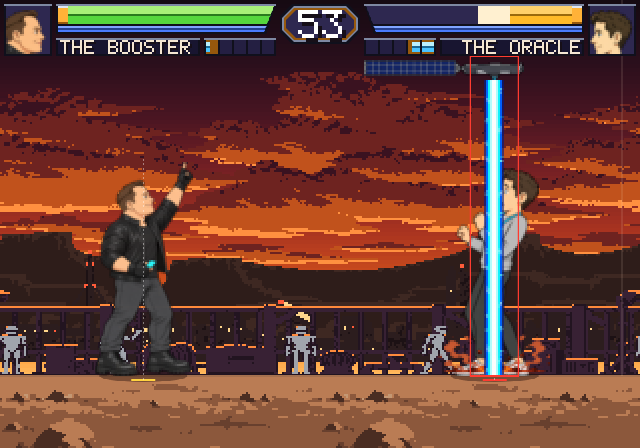
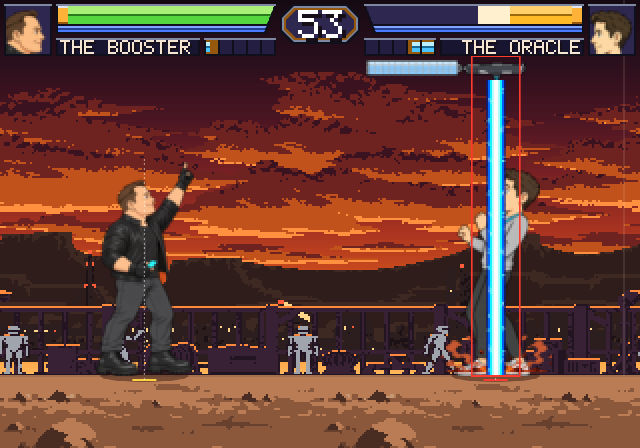
feat(arcade): lighten the laser satellite's solar array
Owner request. The navy array sat at 1.30:1 median contrast against the
darkest crimson rows under the HUD, where the satellite parks. It is now
a recolour edit of the same satellite (pale sky-blue cells, light top
row, white dividers), with the same silhouette, 80x10 size and lens
position. Measured against the composited sky and clouds of rows 30-40:
median 1.30 -> 9.22:1, worst 1.22 -> 5.81:1.

Space laser browser check 11 PASS, asserting satellite-01.png is the
drawn image; npm run check green (788 tests / 64 files, build).

Claude-Session: https://claude.ai/code/session_01XXSHiV7yATPDMgvofESJZE

diff --git a/src/dev/arcadeHarnessEffects.ts b/src/dev/arcadeHarnessEffects.ts
@@ -28,7 +28,7 @@ type EffectId = 'satellite' | `beam-${Exclude<LaserBeamWidth, 0>}` | `impact-${0
 
 const { satellite, beam, impact } = LASER_EFFECT_LAYOUT
 export const LASER_EFFECT_ART: Record<EffectId, { src: string; width: number; height: number }> = {
-  satellite: { src: `${ROOT}/satellite-00.png`, width: satellite.width, height: satellite.height },
+  satellite: { src: `${ROOT}/satellite-01.png`, width: satellite.width, height: satellite.height },
   'beam-14': { src: `${ROOT}/beam-w14.png`, width: 14, height: beam.height },
   'beam-10': { src: `${ROOT}/beam-w10.png`, width: 10, height: beam.height },
   'beam-6': { src: `${ROOT}/beam-w6.png`, width: 6, height: beam.height },

diff --git a/asset-reports/mars-arcade-space-laser-2026-09-23.md b/asset-reports/mars-arcade-space-laser-2026-09-23.md
@@ -31,6 +31,7 @@ The art came from Codex CLI's built-in `image_gen` on the ChatGPT plan, with
 | `watch-00` | `call-it-in-00` | 1 | 1024×1536 |
 | `pocket-00-c1` | `pocket-00` | 1 + 1 correction | 1024×1536 |
 | `satellite-00` | none | 1 | 2172×724 |
+| `satellite-01` (runtime) | `satellite-00` | 1 recolour | 2172×724 |
 | `impact-sheet-00` | none | 1 | 2172×724 |
 | `beam-00` | none | 1 | 941×1672 |
 
@@ -109,6 +110,14 @@ The first satellite pass at 56 px wide was 7 px tall and lost its lens, so it wa
 - **Character gym:** owner rule, every completed animation belongs in the gym. The gym's
   animation list only exists as uncommitted work in the `mars-backdrop` worktree, so these
   three poses must be added to `ARCADE_GYM_ANIMATIONS` when that lands.
-- The satellite's navy solar array is low-contrast against the darkest sky rows under the HUD.
-  It still reads through the grey chassis and the beam; a lighter array or a thin light outline
-  would help.
+
+## Lighter solar array — 2026-09-23 (owner request)
+
+`satellite-00` had a navy array with a 1.30:1 median contrast against the sky it parks in
+(screen rows 30-40, the darkest crimson under the HUD). `satellite-01` is a recolour edit of it
+(prompt `satellite-01.txt`): pale sky-blue cells with a light top row and white dividers.
+It has the same silhouette, size (80×10 after `fit --width 80`) and lens position.
+Measured against the composited sky and clouds of rows 30-40, the panel's median contrast went
+**1.30 to 9.22:1**, and the worst case went **1.22 to 5.81:1**. The runtime now loads `satellite-01.png`.
+The old normalised cell is removed; its raw source stays, because it is the edit's reference.
+Space laser browser check: 11 PASS, asserting `satellite-01.png` is the image drawn.
